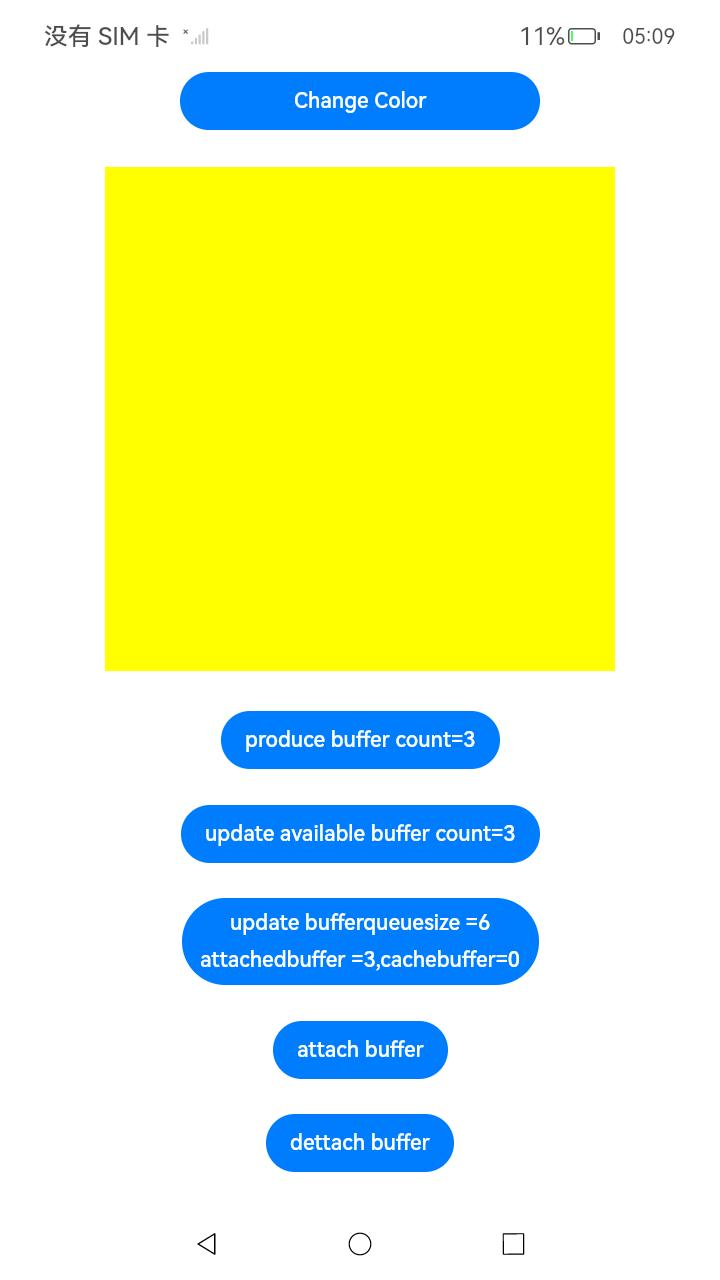
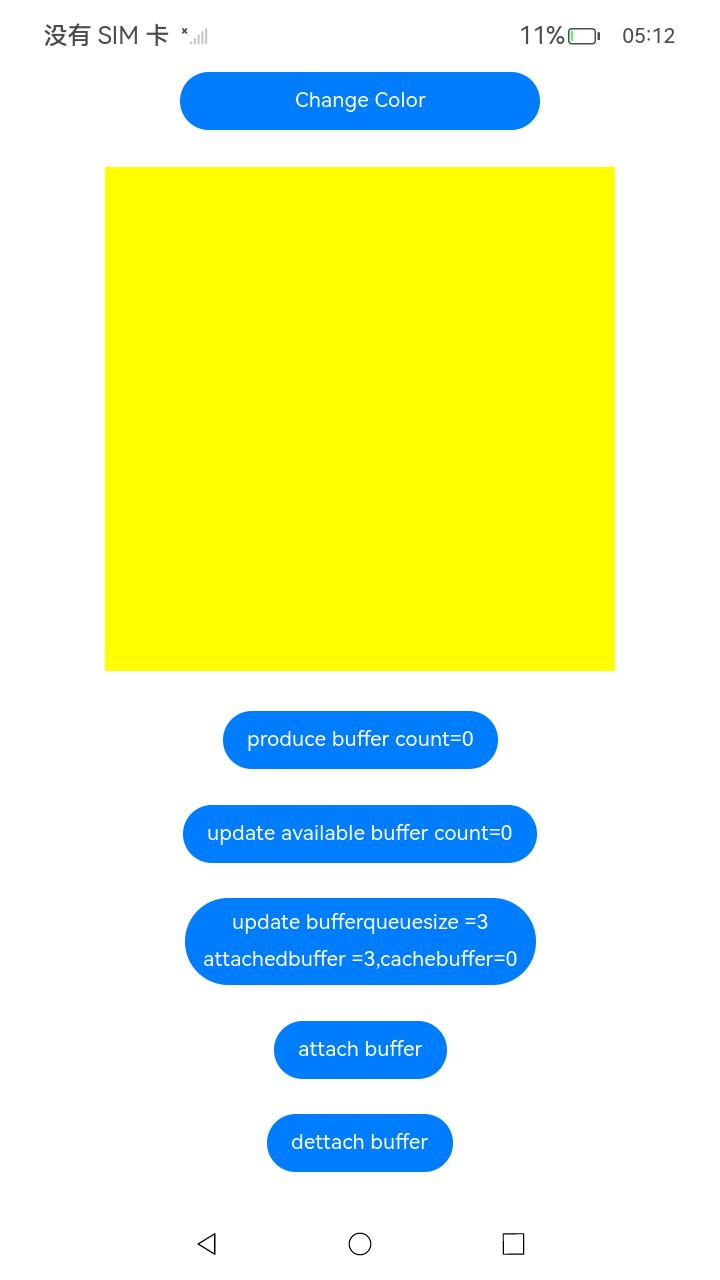
适配attach和detachbuffer接口功能调整

diff --git a/code/BasicFeature/Native/NdkNativeWindow/entry/src/main/cpp/NativeImageAdaptor.cpp b/code/BasicFeature/Native/NdkNativeWindow/entry/src/main/cpp/NativeImageAdaptor.cpp
@@ -235,8 +235,7 @@ void NativeImageAdaptor::AttachBuffer()
     }
 
     NativeWindowBuffer* buffer = bufferCache_.front();
-    int ret = OH_NativeWindow_NativeWindowDetachBuffer(nativeWindowCache_, buffer);
-    ret = OH_NativeWindow_NativeWindowAttachBuffer(nativeWindow_, buffer);
+    int ret = OH_NativeWindow_NativeWindowAttachBuffer(nativeWindowCache_, buffer);
     if (ret != 0) {
         LOGE("OH_NativeWindow_NativeWindowAttachBuffer fail");
         return;
@@ -254,8 +253,7 @@ void NativeImageAdaptor::DettachBuffer()
     }
     
     NativeWindowBuffer *buffer = bufferAttached_.front();
-    int ret = OH_NativeWindow_NativeWindowDetachBuffer(nativeWindow_, buffer);
-    ret = OH_NativeWindow_NativeWindowAttachBuffer(nativeWindowCache_, buffer);
+    int ret = OH_NativeWindow_NativeWindowDetachBuffer(nativeWindowCache_, buffer);
     if (ret != 0) {
         LOGE("OH_NativeWindow_NativeWindowDetachBuffer fail");
         return;
@@ -362,6 +360,7 @@ void NativeImageAdaptor::ProduceBuffer(uint32_t value, OHNativeWindow *InNativeW
     GetBufferMapPlanes(buffer);
     
     if (InNativeWindow == nativeWindowCache_) {
+        OH_NativeWindow_NativeWindowDetachBuffer(nativeWindowCache_, buffer);
         bufferCache_.push(buffer);
         return;
     }

diff --git a/code/BasicFeature/Native/NdkNativeWindow/README_zh.md b/code/BasicFeature/Native/NdkNativeWindow/README_zh.md
@@ -20,8 +20,8 @@
 3. 点击页面底部“produce buffer”按钮，NativeWindow将生产数据并发送给NativeImage，页面展示了生产buffer的次数；
 4. 点击页面底部“update available buffer count”按钮，将展示NativeImage收到的可用帧回调次数。
 5. 点击页面底部“update bufferqueuesize, attachedbuffer, cachebuffer"按钮，将更新三项数值，分别是NativeWindow的buffer队列容量，attach到NativeWindow的buffer数量，缓存区buffer数量。 
-6. 点击页面底部”attachbuffer“, 在cachebuffer大于0时将buffer添加到nativewindow中，bufferqueuesize和attachedbuffer数值加1，cachebuffer数值减1；cachebuffer为0时不做处理。(需要点第五步按钮更新数值)
-7. 点击页面底部”detachbuffer", 在attachedbuffer大于0时将buffer添加到缓存区cachebuffer中，bufferqueuesize和attachedbuffer数值减1，cachebuffer数值加1； attachedbuffer为0时不做处理。(需要点第五步按钮更新数值)
+6. 点击页面底部”attachbuffer“, 在cachebuffer大于0时将buffer添加到nativewindow中，attachedbuffer数值加1，cachebuffer数值减1；cachebuffer为0时不做处理。(需要点第五步按钮更新数值)
+7. 点击页面底部”detachbuffer", 在attachedbuffer大于0时将buffer添加到缓存区cachebuffer中，attachedbuffer数值减1，cachebuffer数值加1； attachedbuffer为0时不做处理。(需要点第五步按钮更新数值)
 
 ### 工程目录
 
@@ -44,7 +44,12 @@
 
 ### 具体实现
 
-通过在IDE中创建Native c++ 工程，在c++代码中定义对外接口为DrawColor，在js侧调用该接口可改变窗口颜色；从NativeImage中创建NativeWindow，在c++代码中定义对外接口为ProduceBuffer，js调用该接口后，   NativeWindow会生产buffer并将该buffer flush给NativeImage，之后NativeImage将收到可用帧的回调，js侧调用GetAvailableCount接口，可以获取回调触发次数，并展示在界面上，正常情况下FlushBuffer的次数和可用帧回调触发次数一致。在c++代码中定义对外接口AttachBuffer，js侧调用该接口后，当缓存区cachebuffer数量大于0时，会添加1个cachebuffer到NativeWindow中，NativeWindow的bufferqueuesize数量加1，cachebuffer数量为0时不操作；js侧调用DetachBuffer接口，当NativeWindow的attachedbuffer数量大于0时，会将NativeWindow中的buffer移除，放置到缓存区中，NativeWindow的buffersizequeue数量减1，当attachedbuffer为0时不操作；js侧调用GetBufferQueueSize、GetAttachBufferCount、GetCacheBufferCount接口时，将获取当前NativeWindow的bufferqueue
+1.通过在IDE中创建Native c++ 工程，在c++代码中定义对外接口为DrawColor，在js侧调用该接口可改变窗口颜色；
+2.从NativeImage中创建NativeWindow，在c++代码中定义对外接口为ProduceBuffer，js调用该接口后，NativeWindow会生产buffer并将该buffer flush给NativeImage，之后NativeImage将收到可用帧的回调;
+3.js侧调用GetAvailableCount接口，可以获取回调触发次数，并展示在界面上，正常情况下FlushBuffer的次数和可用帧回调触发次数一致;
+4.在c++代码中定义对外接口AttachBuffer，js侧调用该接口后，当缓存区cachebuffer数量大于0时，会添加1个cachebuffer到NativeWindow中，cachebuffer数量为0时不操作；
+5.js侧调用DetachBuffer接口，当NativeWindow的attachedbuffer数量大于0时，会将NativeWindow中的buffer移除，放置到缓存区中，当attachedbuffer为0时不操作；
+6.js侧调用GetBufferQueueSize、GetAttachBufferCount、GetCacheBufferCount接口时，将获取当前NativeWindow的bufferqueue容量、已经attach到nativewindow的buffer数量，缓存区buffer数量
 
 源码参考：[cpp目录](entry/src/main/cpp)下的文件。
 
